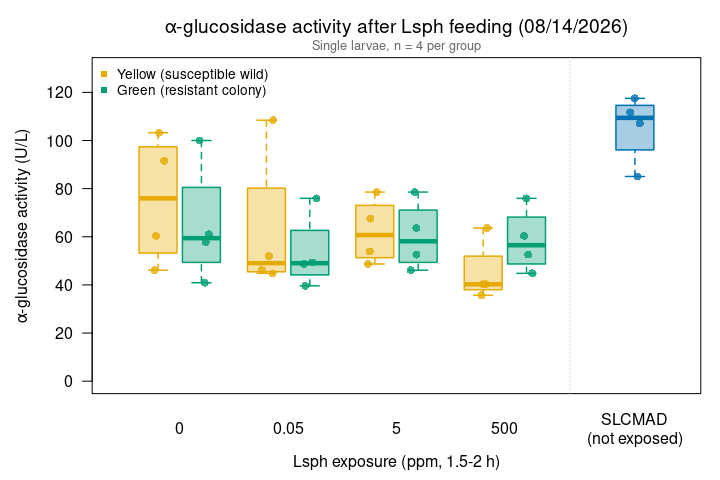
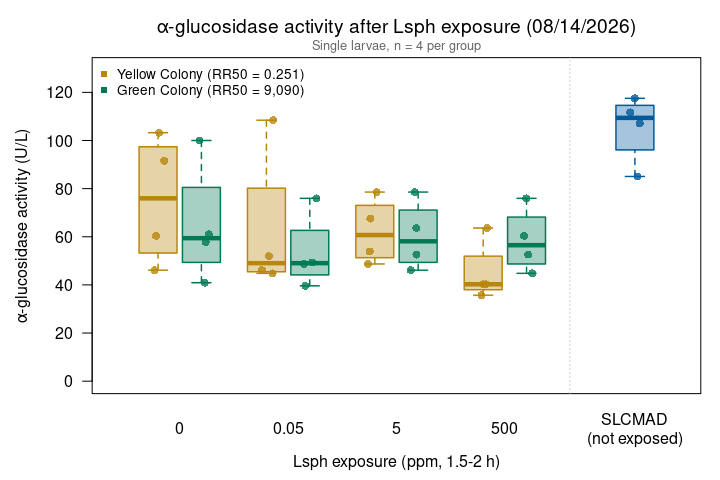
knit

diff --git a/scripts_knitted_md/alpha-glucosidase-2026-08-14_Alina.md b/scripts_knitted_md/alpha-glucosidase-2026-08-14_Alina.md
@@ -1,8 +1,7 @@
-Alina’s alpha-glucosidase assays 08/17/2026: wild and colony larvae (USU
-reader)
+Alina’s alpha-glucosidase assays 08/14/2026
 ================
 Norah Saarman
-2026-10-22
+2026-10-23
 
 - [Overview](#overview)
 - [Plate map](#plate-map)
@@ -26,7 +25,7 @@ nm on the older plate reader at USU. That reader couldn’t run a kinetic
 protocol, so the plate was read twice by hand: once at the start (run 1)
 and once at 20 min (run 2). Each run is a separate .xls file.
 
-**Lsph feeding test.** Larvae were exposed to Lsph (VectoLex) at 0
+**Lsph exposure test.** Larvae were exposed to Lsph (VectoLex) at 0
 (control), 0.05, 5 or 500 ppm for 1.5-2 hours before the assay, 4 single
 larvae per group:
 
@@ -55,13 +54,13 @@ From Alina’s plate map. All other wells were empty.
 file_initial <- file.path(data_dir, "8-14-26 assay run 1.xls")   # t = 0
 file_final   <- file.path(data_dir, "8-14-26 assay run 2.xls")   # t = 20 min
 run_label    <- "2026-08-14"
-
+ 
 water_well <- "A1"   # H2O control
 cal_well   <- "A2"   # calibrator
-
+ 
 dose_order   <- c("0", "0.05", "5", "500")          # ppm Lsph
 colony_order <- c("Yellow", "Green")
-
+ 
 plate_map <- data.frame(
   well   = c(paste0("B", 1:8), paste0("C", 1:8), paste0("D", 1:8), paste0("E", 1:8),
              paste0("F", 1:4)),
@@ -75,12 +74,13 @@ plate_map$group <- ifelse(is.na(plate_map$dose), "SLCMAD (not exposed)",
 
 # Colors
 
-Same palette as the Lsph probit figures and the other plates.
+Presentation palette, matching the master summary and the Lsph probit
+figures (higher contrast; Yellow is a mustard gold).
 
 ``` r
-colony_colors <- c(Yellow = "#E6AB02",
-                   SLCMAD = "#0072B2",
-                   Green  = "#009E73")
+colony_colors <- c(Yellow = "#B8860B",
+                   SLCMAD = "#005A9C",
+                   Green  = "#007A55")
 ```
 
 # Data
@@ -99,11 +99,11 @@ read_plate <- function(file) {
   data.frame(well = paste0(rep(block[[1]], 12), rep(1:12, each = 8)),
              abs  = as.vector(absorbance))
 }
-
+ 
 initial <- read_plate(file_initial)
 final   <- read_plate(file_final)
 stopifnot(identical(initial$well, final$well))
-
+ 
 plates <- data.frame(well = initial$well,
                      A405_initial = initial$abs, A405_final = final$abs)
 ```
@@ -125,16 +125,16 @@ cat(sprintf("Calibrator (%s) at 20 min = %.4f\nWater (%s) at 20 min = %.4f\n",
 agc <- merge(plate_map, plates, by = "well", sort = FALSE)
 agc$activity_U_L <- (agc$A405_final - agc$A405_initial) / denom * 250 * agc$dilution
 agc$over_1       <- agc$A405_final > 1.0
-
+ 
 group_order <- c(paste("Yellow", dose_order, "ppm"), paste("Green", dose_order, "ppm"),
                  "SLCMAD (not exposed)")
 agc$group <- factor(agc$group, levels = group_order)
 agc <- agc[order(agc$group, agc$well), ]
-
+ 
 if (any(agc$over_1))
   warning("A405_final > 1.0 in wells: ", paste(agc$well[agc$over_1], collapse = ", "),
           " -- kit says dilute and repeat.")
-
+ 
 write.csv(agc, file.path(results_dir, paste0("agc_activity_", run_label, ".csv")),
           row.names = FALSE)
 kable(agc, digits = 3, row.names = FALSE)
@@ -189,7 +189,7 @@ agc_summary <- data.frame(
   sd_U_L   = as.numeric(tapply(agc$activity_U_L, agc$group, sd))
 )
 agc_summary$cv_pct <- 100 * agc_summary$sd_U_L / agc_summary$mean_U_L
-
+ 
 write.csv(agc_summary, file.path(results_dir, paste0("agc_summary_", run_label, ".csv")),
           row.names = FALSE)
 kable(agc_summary, digits = 1)
@@ -209,16 +209,15 @@ kable(agc_summary, digits = 1)
 
 # Boxplot
 
-Activity by Lsph dose, Yellow (susceptible) and Green (resistant) side
-by side at each dose, with unexposed SLCMAD at the right. Points are
-individual larvae.
+Activity by Lsph dose, Yellow and Green side by side at each dose, with
+unexposed SLCMAD at the right. Points are individual larvae.
 
 ``` r
 n_dose <- length(dose_order)
 at <- c(seq_len(n_dose) - 0.2, seq_len(n_dose) + 0.2, n_dose + 1.2)
 box_colony <- c(rep("Yellow", n_dose), rep("Green", n_dose), "SLCMAD")
 cols <- colony_colors[box_colony]
-
+ 
 par(mar = c(4.5, 4.8, 3, 1))
 boxplot(activity_U_L ~ group, data = agc, at = at, boxwex = 0.35,
         col    = adjustcolor(cols, alpha.f = 0.35),
@@ -228,7 +227,7 @@ boxplot(activity_U_L ~ group, data = agc, at = at, boxwex = 0.35,
         ylim = c(0, max(agc$activity_U_L) * 1.1),
         xlab = "Lsph exposure (ppm, 1.5-2 h)",
         ylab = expression(alpha*"-glucosidase activity (U/L)"),
-        main = expression(alpha*"-glucosidase activity after Lsph feeding (08/14/2026)"))
+        main = expression(alpha*"-glucosidase activity after Lsph exposure (08/14/2026)"))
 axis(1, at = c(seq_len(n_dose), n_dose + 1.2),
      labels = c(paste(dose_order), "SLCMAD\n(not exposed)"),
      tick = FALSE, padj = 0.5)
@@ -239,7 +238,7 @@ points(jitter(at[as.numeric(agc$group)], amount = 0.07), agc$activity_U_L,
        col = adjustcolor(colony_colors[agc$colony], alpha.f = 0.8))
 legend("topleft", bty = "n", cex = 0.85, pch = 15,
        col = colony_colors[c("Yellow", "Green")],
-       legend = c("Yellow (susceptible wild)", "Green (resistant colony)"))
+       legend = c("Yellow Colony (RR50 = 0.251)", "Green Colony (RR50 = 9,090)"))
 mtext("Single larvae, n = 4 per group", side = 3, line = 0.2, cex = 0.8, col = "grey40")
 ```
 
@@ -280,16 +279,16 @@ cat(sprintf("Largest change in any empty well between runs: %.3f\n",
 
 *Summary for Alina and the lab, written 10/22/2026.*
 
-- **Feeding effect.** Mean activity in the unexposed controls was Yellow
-  75 and Green 65 U/L. Exposed groups were somewhat lower (Yellow 63,
-  62, 45; Green 53, 60, 58 U/L at 0.05, 5 and 500 ppm), but there is no
-  clear dose-response, and the spread within groups is about as large as
-  the differences between them. This matches Alina’s reading of the
+- **Exposure effect.** Mean activity in the unexposed controls was
+  Yellow 75 and Green 65 U/L. Exposed groups were somewhat lower (Yellow
+  63, 62, 45; Green 53, 60, 58 U/L at 0.05, 5 and 500 ppm), but there is
+  no clear dose-response, and the spread within groups is about as large
+  as the differences between them. This matches Alina’s reading of the
   plate.
-- **Susceptible vs. resistant.** Yellow and Green controls are similar
-  here. Unexposed SLCMAD (105 U/L) is again higher than both, as on
-  every other plate.
-- **Short exposure.** 1.5-2 h of feeding is much shorter than the 24-48
+- **Yellow vs. Green.** Yellow and Green controls are similar here.
+  Unexposed SLCMAD (105 U/L) is again higher than both, as on every
+  other plate.
+- **Short exposure.** 1.5-2 h of exposure is much shorter than the 24-48
   h bioassays, so any effect on alpha-glucosidase may not have had time
   to show.
 - **Two manual reads.** As on 08/17, activity comes from two hand-timed

diff --git a/scripts_knitted_md/alpha-glucosidase-2026-09-11_Alina.md b/scripts_knitted_md/alpha-glucosidase-2026-09-11_Alina.md
@@ -1,7 +1,7 @@
 Alina’s alpha-glucosidase assays 09/11/2026: pooling test (1x-5x larvae)
 ================
 Norah Saarman
-2026-10-22
+2026-10-23
 
 - [Overview](#overview)
 - [Plate map](#plate-map)
@@ -48,12 +48,12 @@ From Alina’s plate map. A3 was read but is unlabeled, so it is not used.
 ``` r
 infile    <- file.path(data_dir, "Kinetic Abs @ 405 2026-09-11 11-03-49.xlsx")
 run_label <- "09_11"
-
+ 
 water_well <- "A1"   # 220 µL water
 cal_well   <- "A2"   # 200 µL calibrator + 20 µL water
-
+ 
 group_order <- c("1x", "2x", "3x", "4x", "5x")
-
+ 
 plate_map <- data.frame(
   well     = c("B1","B2","B3", "C1","C2","C3", "D1","D2","D3",
                "E1","E2","E3", "F1","F2","F3"),
@@ -64,15 +64,15 @@ plate_map <- data.frame(
 
 # Colors
 
-Same palette as the Lsph probit figures (most susceptible to most
-resistant). This plate has no colony comparison, so the five colors are
-simply reused in order for 1x-5x.
+Presentation palette, matching the master summary and the Lsph probit
+figures (most susceptible to most resistant). This plate has no colony
+comparison, so every box is drawn in the SLCMAD blue.
 
 ``` r
-pal <- c("#E6AB02", "#0072B2", "#009E73", "#E66100", "#7B5EA7")
+pal <- c("#B8860B", "#005A9C", "#007A55", "#D04A00", "#5E3C99")
 names(pal) <- group_order
-#To draw every box in one colony's color instead, e.g. SLCMAD:
-pal[] <- "#0072B2"
+# Every box in one colony's color, SLCMAD:
+pal[] <- "#005A9C"
 ```
 
 # Data
@@ -87,7 +87,7 @@ raw <- as.data.frame(raw[!is.na(raw$abs), ])
 raw$well   <- gsub(" ", "", raw$well)          # "A 1" -> "A1"
 raw$time_s <- as.numeric(raw$time_s)
 raw <- raw[order(raw$well, raw$time_s), ]
-
+ 
 table(raw$well)                                # reads per well (expect 201)
 ```
 
@@ -100,7 +100,7 @@ table(raw$well)                                # reads per well (expect 201)
 ``` r
 first_abs <- tapply(raw$abs, raw$well, function(x) x[1])
 last_abs  <- tapply(raw$abs, raw$well, function(x) x[length(x)])
-
+ 
 water_20 <- last_abs[[water_well]]
 cal_20   <- last_abs[[cal_well]]
 denom    <- cal_20 - water_20
@@ -118,11 +118,11 @@ agc$A405_final   <- as.numeric(last_abs[agc$well])
 agc$activity_U_L <- (agc$A405_final - agc$A405_initial) / denom * 250 * agc$dilution
 agc$over_1       <- agc$A405_final > 1.0
 agc$group        <- factor(agc$group, levels = group_order)
-
+ 
 if (any(agc$over_1))
   warning("A405_final > 1.0 in wells: ", paste(agc$well[agc$over_1], collapse = ", "),
           " -- kit says dilute and repeat.")
-
+ 
 write.csv(agc, file.path(results_dir, paste0("agc_activity_", run_label, ".csv")),
           row.names = FALSE)
 kable(agc, digits = 3)
@@ -156,7 +156,7 @@ agc_summary <- data.frame(
   sd_U_L   = as.numeric(tapply(agc$activity_U_L, agc$group, sd))
 )
 agc_summary$cv_pct <- 100 * agc_summary$sd_U_L / agc_summary$mean_U_L
-
+ 
 write.csv(agc_summary, file.path(results_dir, paste0("agc_summary_", run_label, ".csv")),
           row.names = FALSE)
 kable(agc_summary, digits = 1)

diff --git a/scripts_knitted_md/alpha-glucosidase-2026-07-10_Alina.md b/scripts_knitted_md/alpha-glucosidase-2026-07-10_Alina.md
@@ -2,7 +2,7 @@ Alina’s alpha-glucosidase assays 07/10/2026: 24-hour storage methods
 (SLCMAD)
 ================
 Norah Saarman
-2026-10-22
+2026-10-23
 
 - [Overview](#overview)
 - [Plate map](#plate-map)
@@ -85,7 +85,13 @@ Lsph probit figures: open circles for room temperature, filled for
 frozen, diamond for live.
 
 ``` r
-slcmad_col <- "#0072B2"
+slcmad_col <- "#005A9C"
+colony_colors <- c(Yellow   = "#B8860B",   # mustard gold (was #E6AB02)
+                   SLCMAD   = "#005A9C",   # deeper blue  (was #0072B2)
+                   Green    = "#007A55",   # deeper green (was #009E73)
+                   Orange   = "#D04A00",   # burnt orange (was #E66100)
+                   White    = "#5E3C99",   # deeper purple (was #7B5EA7)
+                   "Wild R" = "grey20")
 ```
 
 # Data
@@ -240,11 +246,11 @@ if (requireNamespace("multcomp", quietly = TRUE)) {
     ## 
     ## Linear Hypotheses:
     ##                                     Estimate Std. Error t value Pr(>|t|)  
-    ## 80% EtOH, Room temp - Live == 0       -50.90      13.05  -3.900   0.0242 *
-    ## 80% EtOH, Frozen -80 °C - Live == 0   -15.30      13.05  -1.172   0.7151  
-    ## Tris, Room temp - Live == 0           -25.62      13.05  -1.963   0.3025  
-    ## Tris, Frozen -80 °C - Live == 0       -40.26      13.05  -3.084   0.0693 .
-    ## PBS, Room temp - Live == 0            -17.63      13.05  -1.351   0.6074  
+    ## 80% EtOH, Room temp - Live == 0       -50.90      13.05  -3.900   0.0243 *
+    ## 80% EtOH, Frozen -80 °C - Live == 0   -15.30      13.05  -1.172   0.7150  
+    ## Tris, Room temp - Live == 0           -25.62      13.05  -1.963   0.3022  
+    ## Tris, Frozen -80 °C - Live == 0       -40.26      13.05  -3.084   0.0688 .
+    ## PBS, Room temp - Live == 0            -17.63      13.05  -1.351   0.6076  
     ## PBS, Frozen -80 °C - Live == 0         58.56      13.05   4.486   0.0118 *
     ## ---
     ## Signif. codes:  0 '***' 0.001 '**' 0.01 '*' 0.05 '.' 0.1 ' ' 1

diff --git a/scripts_knitted_md/alpha-glucosidase-2026-07-23_Alina.md b/scripts_knitted_md/alpha-glucosidase-2026-07-23_Alina.md
@@ -1,7 +1,7 @@
 Alina’s alpha-glucosidase assays 07/23/2026: SLCMAD vs. USU colonies
 ================
 Norah Saarman
-2026-10-22
+2026-10-23
 
 - [Overview](#overview)
 - [Plate map](#plate-map)
@@ -73,10 +73,11 @@ plate_map <- data.frame(
 Same palette as the Lsph probit figures.
 
 ``` r
-colony_colors <- c(SLCMAD = "#0072B2",
-                   Green  = "#009E73",
-                   Orange = "#E66100",
-                   White  = "#7B5EA7")
+colony_colors <- c(Yellow   = "#B8860B",   # mustard gold (was #E6AB02)
+                   SLCMAD   = "#005A9C",   # deeper blue  (was #0072B2)
+                   Green    = "#007A55",   # deeper green (was #009E73)
+                   Orange   = "#D04A00",   # burnt orange (was #E66100)
+                   White    = "#5E3C99")   # deeper purple (was #7B5EA7)
 ```
 
 # Data

diff --git a/scripts_knitted_md/alpha-glucosidase-2026-06-12_Alina.md b/scripts_knitted_md/alpha-glucosidase-2026-06-12_Alina.md
@@ -2,7 +2,7 @@ Alina’s alpha-glucosidase assays 06/12/2026: larval abdomen vs. thorax
 vs. adults (SLCMAD)
 ================
 Norah Saarman
-2026-10-22
+2026-10-23
 
 - [Overview](#overview)
 - [Plate map](#plate-map)
@@ -83,7 +83,13 @@ All samples are SLCMAD, so every box uses the SLCMAD color from the Lsph
 probit figures.
 
 ``` r
-slcmad_col <- "#0072B2"
+colony_colors <- c(Yellow   = "#B8860B",   # mustard gold (was #E6AB02)
+                   SLCMAD   = "#005A9C",   # deeper blue  (was #0072B2)
+                   Green    = "#007A55",   # deeper green (was #009E73)
+                   Orange   = "#D04A00",   # burnt orange (was #E66100)
+                   White    = "#5E3C99",   # deeper purple (was #7B5EA7)
+                   "Wild R" = "grey20")
+slcmad_col <- "#005A9C"
 ```
 
 # Data

diff --git a/scripts_knitted_md/alpha-glucosidase-2026-06-25_Alina.md b/scripts_knitted_md/alpha-glucosidase-2026-06-25_Alina.md
@@ -1,7 +1,7 @@
 Alina’s alpha-glucosidase assays 06/25/2026: SLCMAD vs. Green and White
 ================
 Norah Saarman
-2026-10-22
+2026-10-23
 
 - [Overview](#overview)
 - [Plate map](#plate-map)
